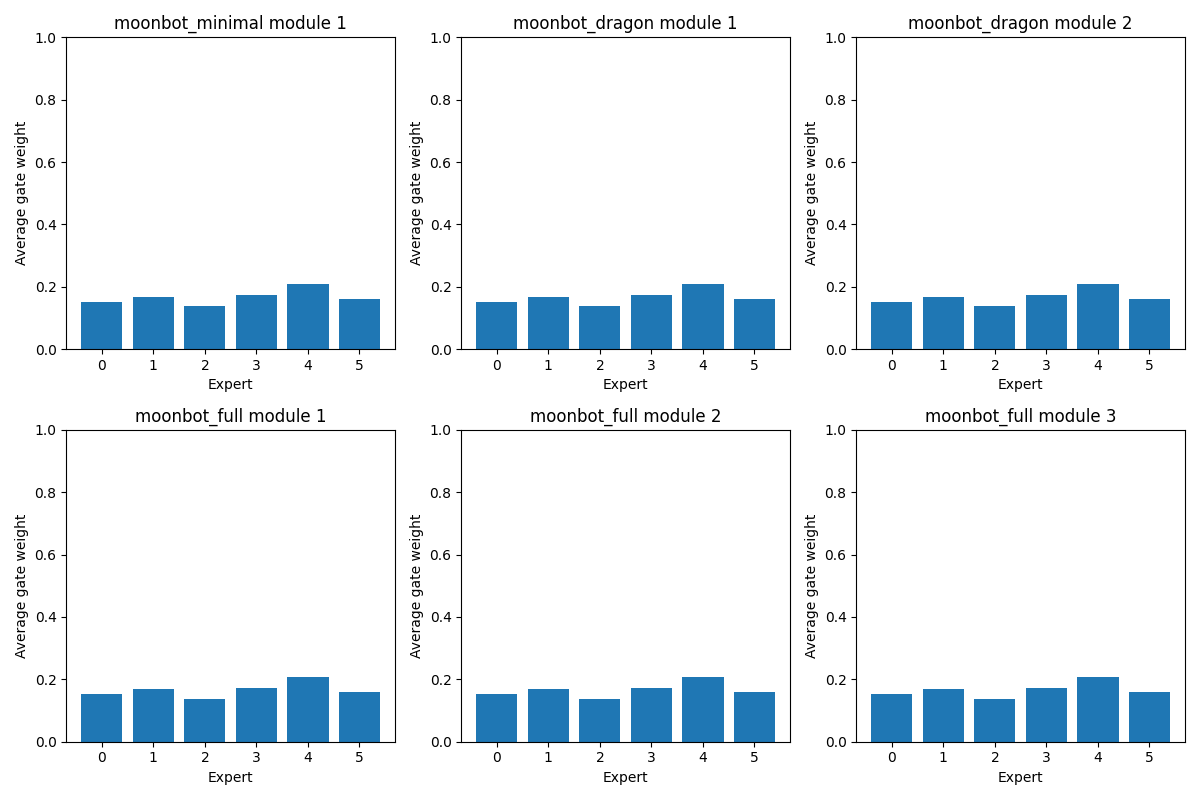
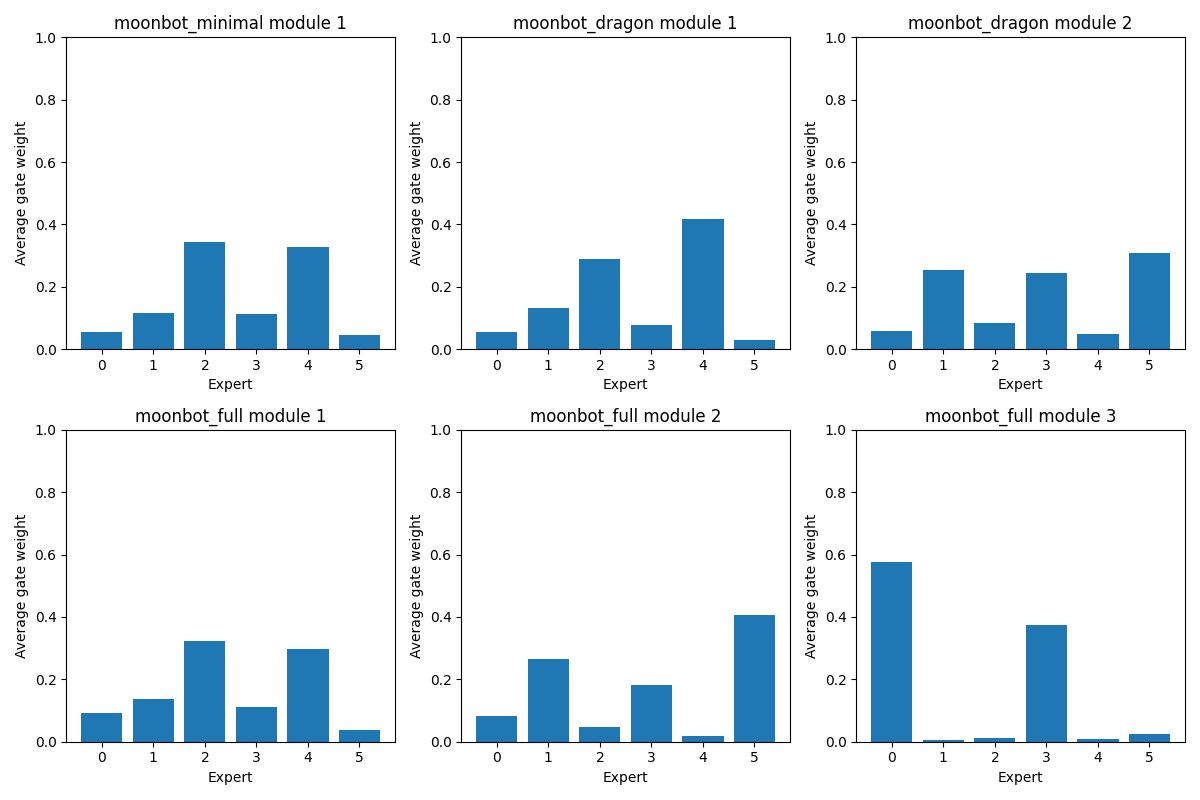
Upload image.

diff --git a/source/moonbot_envs/moonbot_envs/envs/agents/M2oE_cfg.py b/source/moonbot_envs/moonbot_envs/envs/agents/M2oE_cfg.py
@@ -21,7 +21,7 @@ class M2oE_Cfg(M2oEOnPolicyRunnerCfg):
         num_experts=6,
         activation="elu",
         gate_type="attention",
-        gate_embedding_dim=64,
+        gate_embedding_dim=32,
         gate_num_heads=4,
         gate_dropout=0.1,
     )
